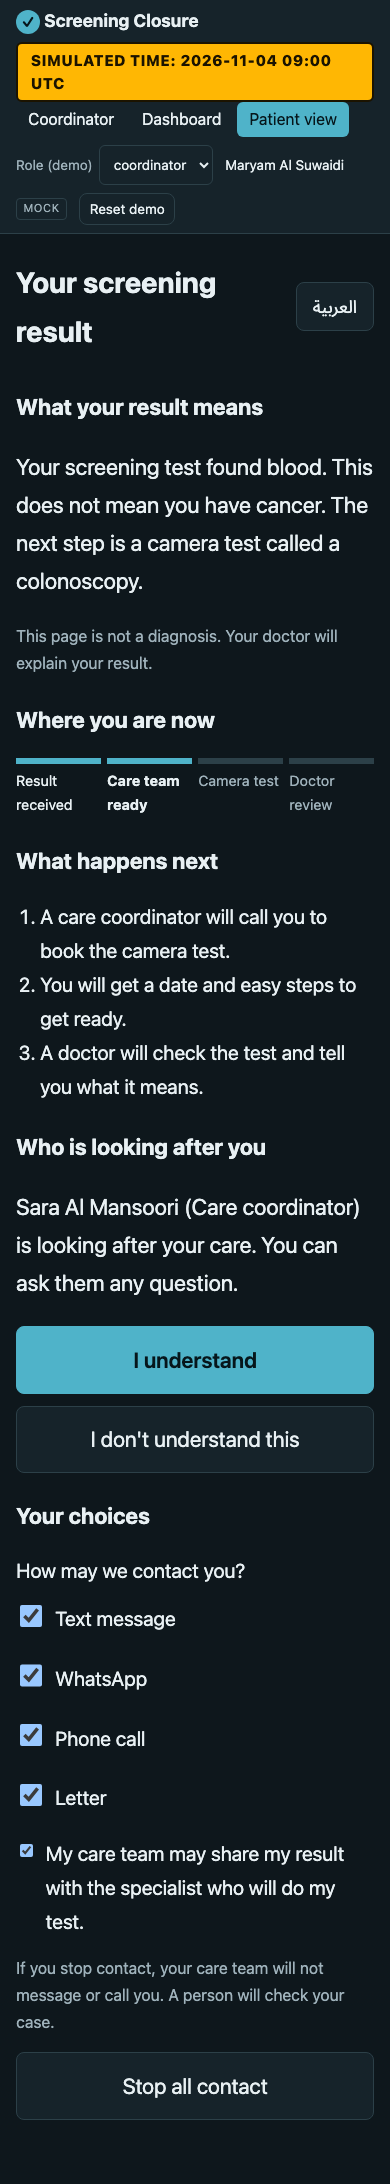
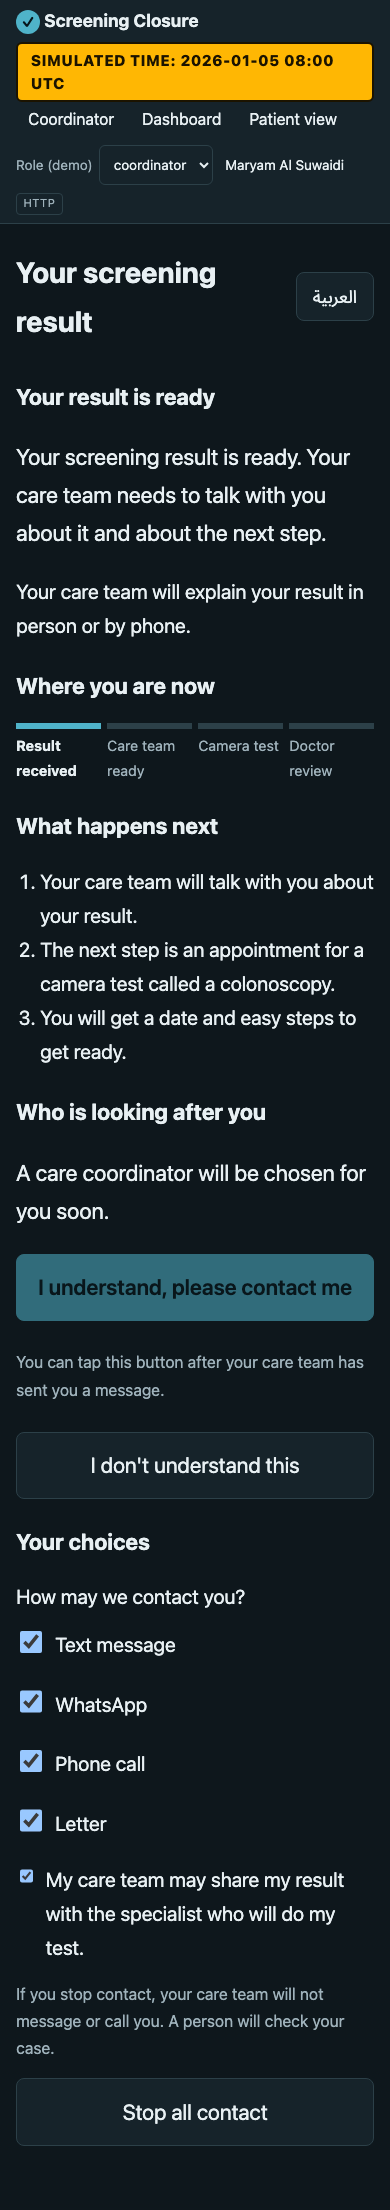
docs: demo script, clinician-pack clock reading, web README and live screenshots
Clinician pack states the pathway-derived clock reading. Web screenshots
regenerated against the live stack (http adapter) with make demo-reset
before and after.

diff --git a/tools/review/build_packs.py b/tools/review/build_packs.py
@@ -779,8 +779,8 @@ def questions(pw: dict) -> list[tuple[str, str, str, str]]:
          "No message (SMS, WhatsApp or letter) and no line on the patient page states or hints at what the screening found. A message says that the result is ready, that the care team needs to talk with the patient about the next step, and who will call. The patient page says the same and adds \"Your care team will explain your result in person or by phone.\" This follows the IFHAS standard that abnormal results are given with the participant present. The next step is named only as an appointment (\"a camera test\"; the patient page also calls it a colonoscopy). The forbidden-phrase list rejects any model draft that states a result (category `result_disclosure`).",
          "Please confirm the non-disclosure wording (H1). Is \"Your screening result is ready and your care team needs to talk with you about the next step\" acceptable as the first message, or does it alarm patients or hint at a finding by itself? Is naming the next step (\"a camera test\", \"a colonoscopy\") acceptable, or should even that wait for the conversation? Is \"in person or by phone\" right, and what should happen when a patient replies and asks for the result by text? Is anything in section 9 alarming, wrong, or missing?"),
         ("kpi", f"What the {ref['working_days']} and {col['working_days']} working days are measured from",
-         f"The pathway has two national timelines. The IFHAS standard (DoH, V10, July 2025) has referral to secondary care within {ref['working_days']} working days of releasing the result; our clock starts when the case is created (the positive result is logged) and stops when a referral is requested (`handoff_requested`). The UAE National Guideline (Appendix 2, not the IFHAS standard) has the colonoscopy within {col['working_days']} working days of referral; our clock starts at the latest referral acceptance (`handoff_accepted`), or at the booking if no referral was accepted, and stops when the colonoscopy is recorded (`complete_confirmatory`). Using every allowance to the full (request on the last day, a {pw['handoff_response_working_days']}-working-day wait for acceptance, then {col['working_days']} working days), a colonoscopy could happen {to_colonoscopy} working days after the result and still meet both timelines.",
-         f"Should the {ref['working_days']} working days stop at the referral request or at its acceptance, and does the clock start at the result release or at the laboratory report date? Should the {col['working_days']} working days count from the request or from the acceptance? Any referral, including a transfer between primary care owners, counts today: should it? Should we also report the programme-level share (the guideline's measure is a percentage, above 90%), not only a limit on each case?"),
+         f"The pathway has two national timelines. The IFHAS standard (DoH, V10, July 2025) has referral to secondary care within {ref['working_days']} working days of releasing the result; our clock starts when the case is created (the positive result is logged) and stops when a referral is requested (`handoff_requested`). The UAE National Guideline (Appendix 2, not the IFHAS standard) has the colonoscopy within {col['working_days']} working days of referral; our {col['working_days']}-working-day clock starts at the latest referral acceptance (`handoff_accepted`), or at the booking if no referral was accepted, and stops when the colonoscopy is recorded (`complete_confirmatory`). That is a stated, slightly lenient reading of \"within {col['working_days']} working days of referral\": the days between the referral request and its acceptance are not counted against the {col['working_days']}; they are bounded instead by the {pw['handoff_response_working_days']}-working-day handoff response timer, after which an unanswered referral bounces back to the referrer. Using every allowance to the full (request on the last day, a {pw['handoff_response_working_days']}-working-day wait for acceptance, then {col['working_days']} working days), a colonoscopy could happen {to_colonoscopy} working days after the result and still meet both timelines.",
+         f"Should the {ref['working_days']} working days stop at the referral request or at its acceptance, and does the clock start at the result release or at the laboratory report date? Please confirm or change our reading that the {col['working_days']} working days count from the latest acceptance rather than from the request (the request-to-acceptance days being bounded by the {pw['handoff_response_working_days']}-working-day response timer instead): is that acceptable, or should the clock start at the request? Any referral, including a transfer between primary care owners, counts today: should it? Should we also report the programme-level share (the guideline's measure is a percentage, above 90%), not only a limit on each case?"),
         ("evidence", "What counts as evidence to close a case",
          "A case can close only with an evidence reference and a named clinician's signature after clinician review. What the evidence reference may point to is not restricted today.",
          "What is acceptable: the colonoscopy report alone, report plus histology, a documented refusal, a letter to the GP? What must be in the sign-off? Who may sign, and is clinician review by itself ever enough?"),
@@ -915,7 +915,7 @@ def clinician_pack() -> str:
     pre = sum(pw["slas_working_days"][e] for e in ("acknowledge", "accept_ownership", "contact_patient", "patient_acknowledge"))
     out += [
         f"**Where the figures come from.** The {ref_m['working_days']} working days to request a referral are the DoH IFHAS standard (V10, July 2025): referral to secondary care within {ref_m['working_days']} working days of releasing results. The {col_m['working_days']} working days for the colonoscopy are **not** from IFHAS: they are the UAE National Guideline for Colorectal Cancer Screening and Diagnosis (3rd edition, 2022, prepared by a task force that included DoH Abu Dhabi; Appendix 2), which sets follow-up colonoscopy **within {col_m['working_days']} working days of referral** in more than 90% of cases (acceptable) and more than 95% (desirable). The same guideline is inconsistent: clause 12.5.2 says 15 working days for the urgent referral, Appendix 3 says 31 days. Sources are listed in `docs/evidence.md` section 8; the register marks them as read from the primary source (check marker P).", "",
-        f"Three differences from the standards matter (question {qn(qs, 'kpi')}): (1) the standards are shares of cases, ours is a limit on each case; (2) the referral clock stops at the referral request, not at its acceptance, and any handoff counts as a referral; (3) the colonoscopy clock starts at the latest referral acceptance, the closest event we record to the guideline's referral date. The four steps before the referral allow {pre} working days in total, which fits inside the {ref_m['working_days']}. "
+        f"Three differences from the standards matter (question {qn(qs, 'kpi')}): (1) the standards are shares of cases, ours is a limit on each case; (2) the referral clock stops at the referral request, not at its acceptance, and any handoff counts as a referral; (3) the {col_m['working_days']}-working-day colonoscopy clock starts at the latest referral acceptance, a stated and slightly lenient reading of \"from referral\" (the days between request and acceptance are bounded instead by the {pw['handoff_response_working_days']}-working-day handoff response timer), and we ask you to confirm or change it. The four steps before the referral allow {pre} working days in total, which fits inside the {ref_m['working_days']}. "
         + (f"`close` has its own limit of {pw['slas_working_days']['close']} working days after clinician review, so a reviewed case can go overdue."
            if "close" in pw["slas_working_days"] else "There is no limit on `close`, so a case can sit at `clinician_reviewed` without breaching."), "",
         "The same working-day arithmetic applies to the referral response time and the escalation offsets below.", "",

diff --git a/docs/submission/demo-script.md b/docs/submission/demo-script.md
@@ -33,7 +33,7 @@ Timing rule: the script is written for 7:00 and must be rehearsed to 6:30 or les
 4. **The second case is already staged** (E9). `make demo-stage` walked the second positive FIT in seed order to "Confirmatory completed" through the API, owned by Dr. Karim Nasser (specialist), and `make demo-snapshot` saved it, so the `make demo-reset` of step 2 has brought it back; nothing to do by hand. To find it: `python3 tools/demo/stage_second_case.py --show` prints the patient and the case id (short id = its first 8 characters), or pick the case in the worklist whose state reads "Confirmatory completed" and whose owner is Dr. Karim Nasser. To check or repair it, `make demo-stage` is safe to rerun: it says "already at 'confirmatory_completed'" and changes nothing, or continues a part-way case. What it does is what you would do by hand with **Switch role**: **Coordinator**, **Acknowledge result**; **Specialist** (Dr. Karim Nasser), **Accept ownership** and **Record patient contacted**; **Patient**, **I understand**; **Specialist**, Appointment reference `APPT-2026-0002` and an Appointment date 14 days after the badge date, **Record booking**, then **Record colonoscopy result** (a `Procedure` and `DiagnosticReport` written to HAPI, `Procedure/colonoscopy-<case id>`) and **Record confirmatory result**. Compose sets `FHIR_VERIFY_EVIDENCE=true`, so `close` is refused with 422 unless that `Procedure` exists in HAPI (A15); the staging is what makes it exist. If the stack was reset without the snapshot (`make reset`), run `make demo-stage` again, then `make demo-snapshot`.
 5. **Run the scripted part**: `make demo-scenario UNTIL=owner_accepted`. It changes nothing but the named patient's case and prints the patient and the case id (with the committed seed: Anisha Kyoko Roberts, `Patient/10242`, case `158a089f-9ee9-5ddb-ab0b-7b02bda8d7dc`). It refuses if the clock has moved or the case is past `result_received`: then `make demo-reset`.
 6. Open three browser tabs: `/coordinator` (worklist), the named patient's case at `/coordinator/<caseId>` and `/dashboard`. The patient view opens by itself when you switch the role to Patient from a case page. The chosen role is remembered per browser, so do the case work in one tab and use the dashboard tab only in beat 6. Open two terminal tabs with the repo root, large font: one with `docker compose stop scheduler` and `docker compose start scheduler` typed but not run; one for the closure property test (beat 5). Run that test once now, `.venv/bin/pytest -q "api/tests/test_state_machine.py::test_never_closed_without_evidence_and_human_signoff"`, and keep its green output in a third terminal tab as the fallback; a screenshot or a short recording of it works too.
-7. Check: the **SIMULATED TIME** badge shows 5 Jan 2026 08:00; the dashboard shows no banner; the named patient's case reads "Owner accepted" with Dr. Layla Haddad as owner; `docker compose ps` shows the scheduler and watchdog up.
+7. Check: the **SIMULATED TIME** badge shows 5 Jan 2026 08:00; the dashboard shows no red banner (a green "The scheduler is running again" line dated just after the reset is expected, because the restored heartbeat is stale and the watchdog raises and clears one alert within seconds of `make demo-reset`, as seen on two resets). The median time to closure is empty on the live stack until a case closes; if the page shows 38 days it is on the mock adapter, and those numbers are fixture data from `web/src/api/fixtures.ts`, not results. Then check that the named patient's case reads "Owner accepted" with Dr. Layla Haddad as owner; `docker compose ps` shows the scheduler and watchdog up.
 8. Have `docs/results/results.md` open at the headline table, and `docs/governance/decision-matrix.md` and `docs/governance/hazard-log.md` in a second window.
 
 ## The 7 minutes
@@ -74,13 +74,13 @@ If you are behind, cut in this order: shorten beat 5 as soon as the dashboard ba
 
 ### 4:30 to 5:15 The numbers
 
-On screen: `/dashboard` for the live case, then the headline table in [results.md](../results/results.md).
+On screen: `/dashboard` for the live case, then the headline table in [results.md](../results/results.md). Say which is which. On the live stack the dashboard numbers come from the API (`GET /metrics/closure`), computed from the demo's own 22 seeded cases and the cases the demo closes: at the start none is closed, so the median and P90 time to closure are empty, and after beat 13 they describe one case. They illustrate the screen; they are not results. The only results are the simulator figures below (synthetic). With the mock adapter (the fallback) the dashboard instead shows fixed fixture values from `web/src/api/fixtures.ts` (`SEED_METRICS`: P50 38 days, P90 79 days, the age buckets, breaches and bottlenecks), typed in by hand: do not quote any of them as a result.
 
-> "These numbers come from a simulator on synthetic data, with every parameter sourced or labelled assumed. We quote the conservative scenario."
+> "These numbers come from a simulator on synthetic data, with every parameter sourced or labelled assumed. We quote the literature-anchored scenario."
 >
 > "Within 180 days, 66% of patients reach a colonoscopy, against 52% under today's process." (results.md headline, `scenarios.literature_anchored.arms.*.completion_180d`: 66.3% and 52.1%)
 >
-> "Cases lost without anyone being told fall from 44.5% to 20.2%." (`silent_loss_rate`, programme level) "At 90 days, 46% are still open instead of 62%." (`open_90d`: 46.0% and 62.4%)
+> "Cases lost without anyone being told: 44.5% today. For the cases the programme reaches it is 0%; for the programme as a whole it is 20%, under an assumption that it reaches 55% of cases." (`silent_loss_rate_in_reach` 0.0%; `silent_loss_rate` 20.2% at programme level under `orchestration.programme_reach` 0.55, a stated assumption; all synthetic) "At 90 days, 46% are still open instead of 62%." (`open_90d`: 46.0% and 62.4%)
 >
 > "This is before capacity: escalations cost nothing in the model, so we would size a pilot by the 119 escalations per 100 cases, not by the completion gain." (`escalations_per_100_cases`: 119.42)
 >
@@ -93,7 +93,7 @@ On screen: `/dashboard` for the live case, then the headline table in [results.m
 ## Q&A preparation
 
 **"Is this just a ticket tracker?"**
-A ticket tracker records what people type. Here the rules are enforced by the engine: a case cannot close without evidence that resolves in the FHIR store and the closer's own signature, and a property test checks that over thousands of random event sequences (T-A1). Clocks run on a working-day calendar and escalate in order to named people who must accept. Silence is detected: idle cases are flagged and a stopped scheduler raises an alert (T-A30, T-A31). Consent is an append-only ledger that freezes outreach in the engine. Every event is projected to FHIR R4 with Provenance. And the evaluation reports the escalation acted-on rate, 43.5% in the conservative scenario, so we can see whether escalations are acted on rather than assume it (results.md, `escalation_acted_on_rate`).
+A ticket tracker records what people type. Here the rules are enforced by the engine: a case cannot close without evidence that resolves in the FHIR store and the closer's own signature, and a property test checks that over thousands of random event sequences (T-A1). Clocks run on a working-day calendar and escalate in order to named people who must accept. Silence is detected: idle cases are flagged and a stopped scheduler raises an alert (T-A30, T-A31). Consent is an append-only ledger that freezes outreach in the engine. Every event is projected to FHIR R4 with Provenance. And the evaluation reports the escalation acted-on rate (within 5 working days), 43.5% in the literature-anchored scenario, so we can see whether escalations are acted on rather than assume it (results.md, `escalation_acted_on_rate`).
 
 **"What's real?"**
 The engine, the tests, the FHIR projection and the evaluation code are real and run on this laptop. The data is synthetic: a Synthea cohort and a seeded simulator. Of 132 simulator parameters, 88 are assumed, 16 calibrated, 13 sourced and 15 sourced-adjacent (`meta.parameter_status_counts`), and the assumptions table lists 37 limitations ([assumptions-limitations.md](../assumptions-limitations.md)). Put the table on screen, then: "run `make evaluate` yourself, and change any parameter you doubt." Nothing is integrated with Malaffi or a provider today, and no message is really sent.
@@ -102,7 +102,10 @@ The engine, the tests, the FHIR projection and the evaluation code are real and 
 Because the transitions that matter are safety-critical: is this case overdue, who is told next, may it close. They must give the same answer every time, be replayable from the log and be explainable to a regulator line by line. A model can draft a message well, and we use it there, behind a human approval. A model that decides a closure can be wrong in a way that looks right, and the case then leaves every worklist and every timer. Here that is impossible by construction: an automated actor cannot emit `close`, and a model actor can emit only `message_drafted` (T-D2). If the model is down, nothing changes except that the draft comes from a template ([design-choices.md](../design-choices.md)).
 
 **"What about capacity?"**
-The model has none, and we say so in the results: escalations cost nothing, and the orchestrated arm raises about 119 per 100 cases in the conservative scenario (205 in the upper range). The completion gains would shrink without the people and colonoscopy slots to act on them. That is why the pilot starts in shadow mode, measures coordinator minutes per case and escalation precision on a sample, and why we size it by the escalation count. A capacity model is future work (L08).
+The model has none, and we say so in the results: escalations cost nothing, and the orchestrated arm raises about 119 per 100 cases in the literature-anchored scenario (205 in the upper range). The completion gains would shrink without the people and colonoscopy slots to act on them. That is why the pilot starts in shadow mode, measures coordinator minutes per case and, on a reviewed sample, the share of escalations the coordinator judges necessary (K7), and why we size it by the escalation count. A capacity model is future work (L08).
+
+**"What is the risk score, and is it validated?"**
+It is a small model that orders the worklist after the overdue cases; it never decides anything and a patient never sees it ([risk-score-card.md](../governance/risk-score-card.md)). It is trained on simulator output only, so it demonstrates an ordering pattern and is not a validated model. Say "ordering only, synthetic, calibrated within tolerance", and do not quote an AUC or any other performance figure on stage. Under the DoH Responsible AI Standard (clause 3.1.4.4.2, via regulatory-mapping.md), production data is not used to train models, so retraining in a pilot would need DoH approval and consented, de-identified data. Until then the score stays an ordering aid for the coordinator, and the pilot would judge it against coordinator experience rather than treat it as evidence.
 
 **"Malaffi is HL7 v2, not FHIR."**
 Agreed, and our plan assumes it. The official sources we read list Malaffi's minimum dataset as HL7 v2 message types, and no official document confirms a FHIR interface (evidence.md section 8c). FHIR is our internal model. The adapter plan puts an HL7 v2 adapter at the boundary: ORU for results, ADT for demographics, SIU for appointments, the message control id as the idempotency key, and an automated actor that can never close a case. It is a target, not a claim, and the pilot does not depend on it ([malaffi-adapter-plan.md](../governance/malaffi-adapter-plan.md)).
@@ -111,7 +114,7 @@ Agreed, and our plan assumes it. The official sources we read list Malaffi's min
 The version we read, ADHICS v0.9 control CM 4.2, prohibits cloud for health information unless DoH authorises it; the current V2 is to verify. So our hosting order is: the provider's own approved environment first, a UAE cloud with written DoH authorisation second, nothing else (ADR-026). The stack is containers and Postgres with no cloud-managed service, so it runs unchanged in the provider's data centre. Backups, disaster recovery and remote support stay in the UAE. The model host follows the same order, and without one the template is used.
 
 **"Why these ages and these SLAs?"**
-Eligibility of 40 to 75 with an annual FIT is sourced from the UAE National Guideline and DoH IFHAS V10 (evidence.md section 8a). The demo cohort is generated for the same 40 to 75 range, so the cohort and the eligibility rule agree ([data-provenance.md](../data-provenance.md), L02). The 31 working days for the colonoscopy is the national KPI, measured from referral, so our clock starts at referral acceptance (A13). The other SLAs (acknowledge 2, accept 2, contact 5, patient acknowledges 7, book 14, review 5, sign-off 3, re-route 2 working days) are design choices in a short YAML file; the clinician review (H1) will set them, and a change is a config edit and a rerun of `make evaluate`, not code.
+Eligibility of 40 to 75 with an annual FIT is sourced from the UAE National Guideline and DoH IFHAS V10 (evidence.md section 8a). The demo cohort is generated for the same 40 to 75 range, so the cohort and the eligibility rule agree ([data-provenance.md](../data-provenance.md), L02). The referral is to be requested within 15 working days of the result's release (IFHAS V10), and the colonoscopy completed within 31 working days from referral (National Guideline Appendix 2, evidence.md section 8b). Our 31-working-day clock starts at the latest referral acceptance, a stated and slightly lenient reading of "from referral"; the days between request and acceptance are bounded instead by the 3-working-day handoff response timer, and the clinician review (H1) is asked to confirm or change that reading (A13). The other SLAs (acknowledge 2, accept 1, contact 3, patient acknowledges 5, book 5, review 5, close 3, re-route 2 working days; the four steps before the referral add up to 11, inside the 15) are design choices in a short YAML file; the clinician review (H1) will set them, and a change is a config edit and a rerun of `make evaluate`, not code.
 
 
 ## Backup video storyboard (3 minutes)
@@ -131,7 +134,7 @@ For the submission video (H4): 20 s problem, 2 min the catch-and-close scenario,
 | 9 | 1:35 | 0:10 | 13. A prepared second case | Worklist, open the case at "Confirmatory completed" | "Colonoscopy done and recorded as a FHIR Procedure and DiagnosticReport" |
 | 10 | 1:45 | 0:20 | 13. Bad reference refused, then closed | Wrong reference, 422 banner; Record colonoscopy result; Sign off and close case; timeline "Case closed (signed)" | "A reference that does not exist is refused. With the real Procedure and the clinician's own signature: closed." |
 | 11 | 2:05 | 0:15 | 13. Proof | Timeline, then the property test passing, then the Reopen panel with its reasons | "No closure without evidence and a clinician's signature: tested on 2,000 random sequences every run. Reopening needs a reason." |
-| 12 | 2:20 | 0:30 | Numbers | Headline table from results.md, three rows highlighted | "Simulation on synthetic data, conservative scenario: colonoscopy within 180 days 52% to 66%; lost without anyone told 44.5% to 20.2%; open at 90 days 62% to 46%. Before capacity limits. Rerun: make evaluate" |
+| 12 | 2:20 | 0:30 | Numbers | Headline table from results.md, three rows highlighted | "Simulation on synthetic data, literature-anchored scenario: colonoscopy within 180 days 52% to 66%; lost without anyone told 44.5% at baseline, 0% for cases the programme reaches and 20% programme-level under a 0.55 reach assumption; open at 90 days 62% to 46%. Before capacity limits. Rerun: make evaluate" |
 | 13 | 2:50 | 0:10 | Ask | Pilot slide | "Pilot ask: one programme, two providers, 90 days, shadow mode first. Cases closed without evidence: must stay zero." |
 
 Governance has no shot of its own in the 3-minute video; captions 5, 6, 7 and 11 carry it, and the technical documentation covers it in full.
@@ -140,7 +143,7 @@ Governance has no shot of its own in the 3-minute video; captions 5, 6, 7 and 11
 
 | Failure | Recovery |
 |---|---|
-| API or database down | Switch the web app to the mock adapter (`make web-dev`), press **Reset demo**, and run the same story on its fixture cases; on the dashboard use **Simulate scheduler down** for beat 6 (the mock has no clock control, so use a fixture case that is already overdue). Say that this is the in-browser fallback. |
+| API or database down | Switch the web app to the mock adapter (`make web-dev`), press **Reset demo**, and run the same story on its fixture cases; on the dashboard use **Simulate scheduler down** for beat 6 (the mock has no clock control, so use a fixture case that is already overdue). Say that this is the in-browser fallback, and that with the mock adapter the dashboard numbers (P50 38 days, P90 79 days and the charts) are fixture data from `web/src/api/fixtures.ts`, not results. |
 | Watchdog banner slow to appear | Keep talking through beat 5; the alert is due 60 to 80 s after the stop. If it has not appeared by 2:30, show `docker compose logs --tail 20 watchdog`, restart the scheduler anyway (the overdue flag and the rungs still appear) and say so. |
 | No overdue flag or escalation after the restart | The case changed state between the clock jump and the restart (the sweep plans only for the current state). Do not touch the case in beats 4 to 5. Recover with `make demo-reset`, stage again and use the backup video. |
 | The property test is slow or fails to start | Switch to the tab that holds the earlier green run, or the recording, and say so. |

diff --git a/web/README.md b/web/README.md
@@ -6,7 +6,7 @@ Vite + React + TypeScript. Three surfaces on one typed API client:
 |---|---|
 | `/coordinator`, `/coordinator/:caseId` | Coordinator / owner app: worklist (most overdue first, then risk), filters, case timeline, actions |
 | `/patient/:caseId` (and `/patient`) | Patient PWA, Arabic + English, installable, last case renders offline |
-| `/dashboard` | Closure dashboard: P50/P90, open by age, breaches by provider, bottleneck by transition |
+| `/dashboard` | Closure dashboard: P50/P90, open by age, breaches by provider, bottleneck by transition (live: computed by `GET /metrics/closure` from the cases in the database; mock adapter: fixed fixture values, see below) |
 
 Every page shows a permanent **SIMULATED TIME** badge in the header (from `sim_time` in `GET /metrics/closure`).
 All data is synthetic. Nothing here diagnoses anyone; the AI draft flow is draft -> human approval, and the risk score only orders the worklist.
@@ -26,7 +26,7 @@ make test-e2e-live      # Playwright against the REAL stack (http adapter on :41
 
 `VITE_API_ADAPTER=mock|http` (build/dev time; default `mock`). See `.env.example`.
 
-- **mock**: the whole API in the browser, seeded from `src/api/fixtures.ts` (16 synthetic cases, sim clock fixed at 2026-11-04 09:00 UTC). It mirrors the engine's rules (state transitions, closure needs `evidence_ref` + `signed_by`, no automated closer, the referral handoff contract with owner scoping, the consent ledger and freeze, the draft approval gate and the notification mock's consent/contact blocks) and persists to `localStorage`, so the coordinator and patient views in two tabs see each other. `login()` records who is acting, because the real API decides who may approve a draft from the bearer token. Header button "Reset demo" restores the seed. This is the offline demo fallback.
+- **mock**: the whole API in the browser, seeded from `src/api/fixtures.ts` (16 synthetic cases, sim clock fixed at 2026-11-04 09:00 UTC). It mirrors the engine's rules (state transitions, closure needs `evidence_ref` + `signed_by`, no automated closer, the referral handoff contract with owner scoping, the consent ledger and freeze, the draft approval gate and the notification mock's consent/contact blocks) and persists to `localStorage`, so the coordinator and patient views in two tabs see each other. `login()` records who is acting, because the real API decides who may approve a draft from the bearer token. Header button "Reset demo" restores the seed. This is the offline demo fallback. **Its dashboard numbers are fixture data, not results**: `SEED_METRICS` in `src/api/fixtures.ts` is a hand-typed object (median time to closure P50 38 days, P90 79 days, open-by-age 41/23/11/6, breaches by provider, bottleneck days per transition); nothing derives it from the cases, and the mock returns it unchanged for `GET /metrics/closure`. Against the real API the P50 and P90 are calendar days from result to first safe close over the closed cases (`api/app/metrics.py`, `time_to_closure`) and are empty (`null`) while no case has closed, as on a freshly reset demo stack.
 - **http**: the real API at `VITE_API_URL` (default `http://localhost:8000`):
   `VITE_API_ADAPTER=http VITE_API_URL=http://localhost:8000 npm run dev`.
   Endpoints that the backend has not shipped yet degrade: `/me` 404 -> coordinator, `/cases/{id}/timeline` 404 -> events from `GET /cases/{id}`, `GET /alerts` 404 -> no alerts, `POST /auth/dev-login` 404 -> no token. Read-model fields a row lacks (`owner`, `due_at`, `overdue`, `escalation_level`, `consent_frozen`, `last_event_at`, `provider`, `pending_handoff`, `last_handoff`, `consent`) get safe defaults, or are derived from the event log on `GET /cases/{id}`; the real `GET /cases/{id}` nests them under `read_model`, which the adapter lifts. The owner may be a string (actor or name) or the A14 object `{actor, display_name, role}`. The metrics endpoint is still pending. The API allows the local web origins (5173, 4173, 4175) with CORS, including the `Authorization` header (`CORS_ALLOW_ORIGINS`, E8).
@@ -39,7 +39,7 @@ The http adapter is exercised end to end by `make test-e2e-live` (see Tests). Wh
 - **Display names**: the log holds `role:opaque_id`; the `actors` map of `GET /cases/{id}` and `/timeline` is registered in `lib/derive.ts` (`registerActors`) so the timeline, drafts and owner read "Dr. Layla Haddad".
 - **Patient login**: the real API needs `patient_ref` for a patient and a patient cannot look it up, so `loginPatientFor(caseId)` (called by the patient page) reads it from the case with a staff login of its own that does not touch the session, remembers it in `localStorage` (`sc.patient_ref`) and logs in as that patient. Switching to the patient role from a case page opens that case's patient view. Demo only; the mock needs none of this.
 - **Sim time**: the header reads `GET /health` (public, has `sim_time`); `/metrics/closure` is staff-only and gave a clinician or a patient "unavailable".
-- **`risk_score: null`** (no risk model yet) no longer crashes the worklist.
+- **`risk_score`** (D8 to D10): the API fills it for every staff role and returns `null` for a patient (`api/app/routers/cases.py`, `_sees_risk`; it is also null if the model file cannot be scored, which never breaks the worklist). The worklist orders by it only after overdue (`src/lib/worklist.ts`: overdue first, then risk, then oldest case), and the worklist and case page show it as a bar (`RiskBar`, "orders list only"); a `null` or missing value is shown as nothing and sorts as 0. It feeds nothing else. The model is trained on simulator output only and is a demonstration of the ordering pattern, not a validated model ([risk-score-card.md](../docs/governance/risk-score-card.md)). The mock adapter's scores are hand-set fixture values (`FIXTURE_RISK` in `src/api/fixtures.ts`), not model output.
 - **Colonoscopy evidence**: "Record colonoscopy result" (owners of the case) calls `POST /cases/{id}/confirmatory-result`, which writes a synthetic `Procedure` and `DiagnosticReport` to HAPI and returns the reference. It fills the confirmatory-result field at `confirmatory_booked` and the evidence field of the sign-off panel; `close` then carries `Procedure/<id>`, which the API checks against HAPI.
 - **Non-owner clinicians** no longer get "request handoff to my provider" (only the owner may request a handoff; the API answers 403). The page says "Ask the current owner (X) to hand it off to <your provider>".
 - **`lost_contact`** now offers "Record patient contacted" again (the pathway's `lost_contact --contact_patient--> patient_contacted`).
@@ -111,4 +111,4 @@ Header role switcher (coordinator / owner / specialist / clinician / supervisor 
   - `a11y.spec.ts`: axe-core (WCAG 2.0/2.1 A and AA) on the worklist, the case page (as coordinator and as owner, with a bounced and a frozen case), the patient page in English and Arabic, and the dashboard (with the scheduler banner), in light and dark; fails on any serious or critical violation (a self-test proves the audit catches a missing alt text and an unnamed button). PWA: the manifest has name, short name, start URL, scope, standalone display, theme colours and 192 and 512 px icons that are all served; a service worker with a fetch handler is active and controls the page.
   - `flows.spec.ts`: the first-pass flows (coordinator, watchdog, reopen, patient, dashboard badge, offline reload).
 - Playwright does not need a download if a Chromium headless shell is already in `~/Library/Caches/ms-playwright` (`playwright.config.ts` picks the newest one; override with `PW_CHROMIUM_PATH`). Otherwise `npx playwright install chromium`.
-- Screenshots: `SCREENSHOTS=1 npx playwright test e2e/screenshots.spec.ts` writes `web/screenshots/` (light and dark).
+- Screenshots (`web/screenshots/`, light and dark): captured against the live stack (http adapter, after `make demo-reset`), so actors show opaque ids and roles and the header adapter badge reads `http`, not `mock`. `SCREENSHOTS=1 npx playwright test e2e/screenshots.spec.ts` regenerates them from the mock adapter instead (fixture cases and fixture dashboard values; the header adapter badge reads `mock`), which is the offline fallback.

diff --git a/docs/review/clinician-pack.md b/docs/review/clinician-pack.md
@@ -150,7 +150,7 @@ A milestone is a clock from one event to another, measured against a national st
 
 **Where the figures come from.** The 15 working days to request a referral are the DoH IFHAS standard (V10, July 2025): referral to secondary care within 15 working days of releasing results. The 31 working days for the colonoscopy are **not** from IFHAS: they are the UAE National Guideline for Colorectal Cancer Screening and Diagnosis (3rd edition, 2022, prepared by a task force that included DoH Abu Dhabi; Appendix 2), which sets follow-up colonoscopy **within 31 working days of referral** in more than 90% of cases (acceptable) and more than 95% (desirable). The same guideline is inconsistent: clause 12.5.2 says 15 working days for the urgent referral, Appendix 3 says 31 days. Sources are listed in `docs/evidence.md` section 8; the register marks them as read from the primary source (check marker P).
 
-Three differences from the standards matter (question 4): (1) the standards are shares of cases, ours is a limit on each case; (2) the referral clock stops at the referral request, not at its acceptance, and any handoff counts as a referral; (3) the colonoscopy clock starts at the latest referral acceptance, the closest event we record to the guideline's referral date. The four steps before the referral allow 11 working days in total, which fits inside the 15. `close` has its own limit of 3 working days after clinician review, so a reviewed case can go overdue.
+Three differences from the standards matter (question 4): (1) the standards are shares of cases, ours is a limit on each case; (2) the referral clock stops at the referral request, not at its acceptance, and any handoff counts as a referral; (3) the 31-working-day colonoscopy clock starts at the latest referral acceptance, a stated and slightly lenient reading of "from referral" (the days between request and acceptance are bounded instead by the 3-working-day handoff response timer), and we ask you to confirm or change it. The four steps before the referral allow 11 working days in total, which fits inside the 15. `close` has its own limit of 3 working days after clinician review, so a reviewed case can go overdue.
 
 The same working-day arithmetic applies to the referral response time and the escalation offsets below.
 
@@ -402,7 +402,7 @@ The Arabic list has 53 entries (see `arabic-pack.md`). The validator also reject
 
 3. **No result in any text.** No message (SMS, WhatsApp or letter) and no line on the patient page states or hints at what the screening found. A message says that the result is ready, that the care team needs to talk with the patient about the next step, and who will call. The patient page says the same and adds "Your care team will explain your result in person or by phone." This follows the IFHAS standard that abnormal results are given with the participant present. The next step is named only as an appointment ("a camera test"; the patient page also calls it a colonoscopy). The forbidden-phrase list rejects any model draft that states a result (category `result_disclosure`). *Question:* Please confirm the non-disclosure wording (H1). Is "Your screening result is ready and your care team needs to talk with you about the next step" acceptable as the first message, or does it alarm patients or hint at a finding by itself? Is naming the next step ("a camera test", "a colonoscopy") acceptable, or should even that wait for the conversation? Is "in person or by phone" right, and what should happen when a patient replies and asks for the result by text? Is anything in section 9 alarming, wrong, or missing?
 
-4. **What the 15 and 31 working days are measured from.** The pathway has two national timelines. The IFHAS standard (DoH, V10, July 2025) has referral to secondary care within 15 working days of releasing the result; our clock starts when the case is created (the positive result is logged) and stops when a referral is requested (`handoff_requested`). The UAE National Guideline (Appendix 2, not the IFHAS standard) has the colonoscopy within 31 working days of referral; our clock starts at the latest referral acceptance (`handoff_accepted`), or at the booking if no referral was accepted, and stops when the colonoscopy is recorded (`complete_confirmatory`). Using every allowance to the full (request on the last day, a 3-working-day wait for acceptance, then 31 working days), a colonoscopy could happen 49 working days after the result and still meet both timelines. *Question:* Should the 15 working days stop at the referral request or at its acceptance, and does the clock start at the result release or at the laboratory report date? Should the 31 working days count from the request or from the acceptance? Any referral, including a transfer between primary care owners, counts today: should it? Should we also report the programme-level share (the guideline's measure is a percentage, above 90%), not only a limit on each case?
+4. **What the 15 and 31 working days are measured from.** The pathway has two national timelines. The IFHAS standard (DoH, V10, July 2025) has referral to secondary care within 15 working days of releasing the result; our clock starts when the case is created (the positive result is logged) and stops when a referral is requested (`handoff_requested`). The UAE National Guideline (Appendix 2, not the IFHAS standard) has the colonoscopy within 31 working days of referral; our 31-working-day clock starts at the latest referral acceptance (`handoff_accepted`), or at the booking if no referral was accepted, and stops when the colonoscopy is recorded (`complete_confirmatory`). That is a stated, slightly lenient reading of "within 31 working days of referral": the days between the referral request and its acceptance are not counted against the 31; they are bounded instead by the 3-working-day handoff response timer, after which an unanswered referral bounces back to the referrer. Using every allowance to the full (request on the last day, a 3-working-day wait for acceptance, then 31 working days), a colonoscopy could happen 49 working days after the result and still meet both timelines. *Question:* Should the 15 working days stop at the referral request or at its acceptance, and does the clock start at the result release or at the laboratory report date? Please confirm or change our reading that the 31 working days count from the latest acceptance rather than from the request (the request-to-acceptance days being bounded by the 3-working-day response timer instead): is that acceptable, or should the clock start at the request? Any referral, including a transfer between primary care owners, counts today: should it? Should we also report the programme-level share (the guideline's measure is a percentage, above 90%), not only a limit on each case?
 
 5. **What counts as evidence to close a case.** A case can close only with an evidence reference and a named clinician's signature after clinician review. What the evidence reference may point to is not restricted today. *Question:* What is acceptable: the colonoscopy report alone, report plus histology, a documented refusal, a letter to the GP? What must be in the sign-off? Who may sign, and is clinician review by itself ever enough?
 
